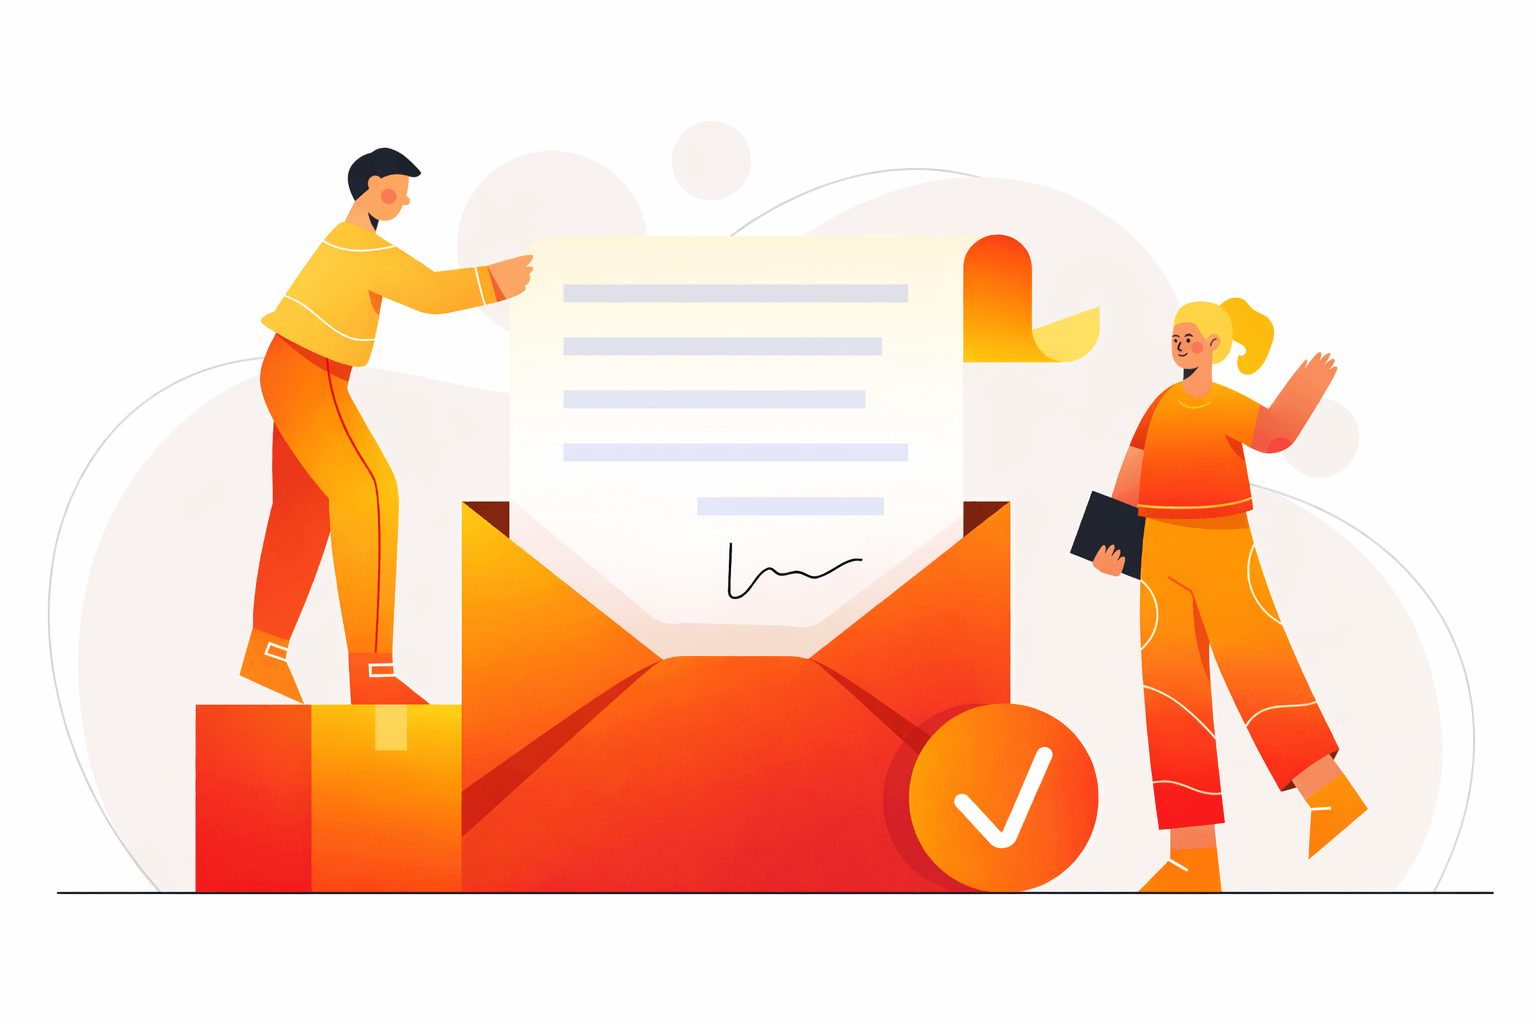
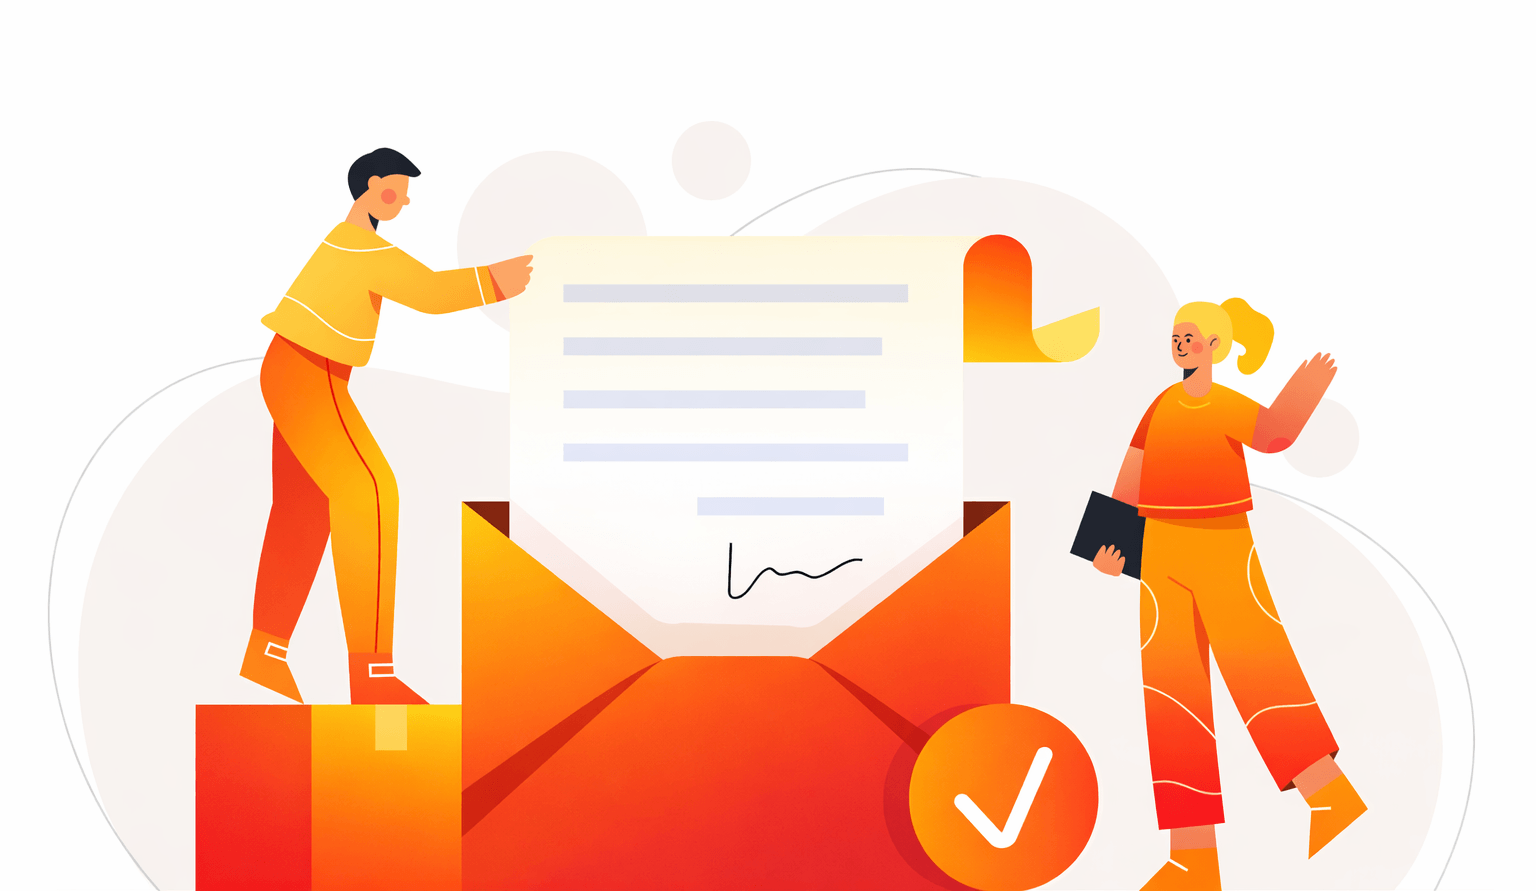
Validate duplicate email and username

diff --git a/app/pages/Register.vue b/app/pages/Register.vue
@@ -54,6 +54,8 @@ const onSubmit = async () => {
     submitAttempted.value = true;
     authError.value = "";
     authSuccess.value = "";
+    resendMessage.value = "";
+    resendError.value = "";
     setCustomInputValidity();
 
     if (!formRef.value || !formRef.value.checkValidity()) {
@@ -63,12 +65,47 @@ const onSubmit = async () => {
     signupLoading.value = true;
 
     try {
-        const { data, error } = await supabase.auth.signUp({
-            email: email.value,
+        const trimmedEmail = email.value.trim().toLowerCase();
+        const trimmedUsername = username.value.trim();
+
+        const { data: existingEmailUser, error: emailCheckError } = await supabase
+            .from('user')
+            .select('id')
+            .eq('email', trimmedEmail)
+            .maybeSingle();
+
+        if (emailCheckError) {
+            authError.value = 'Nem sikerült ellenőrizni az email címet.';
+            return;
+        }
+
+        if (existingEmailUser) {
+            authError.value = 'Ezzel az email címmel már regisztráltak.';
+            return;
+        }
+
+        const { data: existingUsernameUser, error: usernameCheckError } = await supabase
+            .from('user')
+            .select('id')
+            .eq('username', trimmedUsername)
+            .maybeSingle();
+
+        if (usernameCheckError) {
+            authError.value = 'Nem sikerült ellenőrizni a felhasználónevet.';
+            return;
+        }
+
+        if (existingUsernameUser) {
+            authError.value = 'Ez a felhasználónév már foglalt.';
+            return;
+        }
+
+        const { error } = await supabase.auth.signUp({
+            email: trimmedEmail,
             password: password.value,
             options: {
                 data: {
-                    username: username.value
+                    username: trimmedUsername
                 }
             }
         });
@@ -78,7 +115,7 @@ const onSubmit = async () => {
             return;
         }
 
-        confirmationEmail.value = email.value;
+        confirmationEmail.value = trimmedEmail;
         authSuccess.value = "Sikeres regisztráció!";
         showConfirmationModal.value = true;
 
